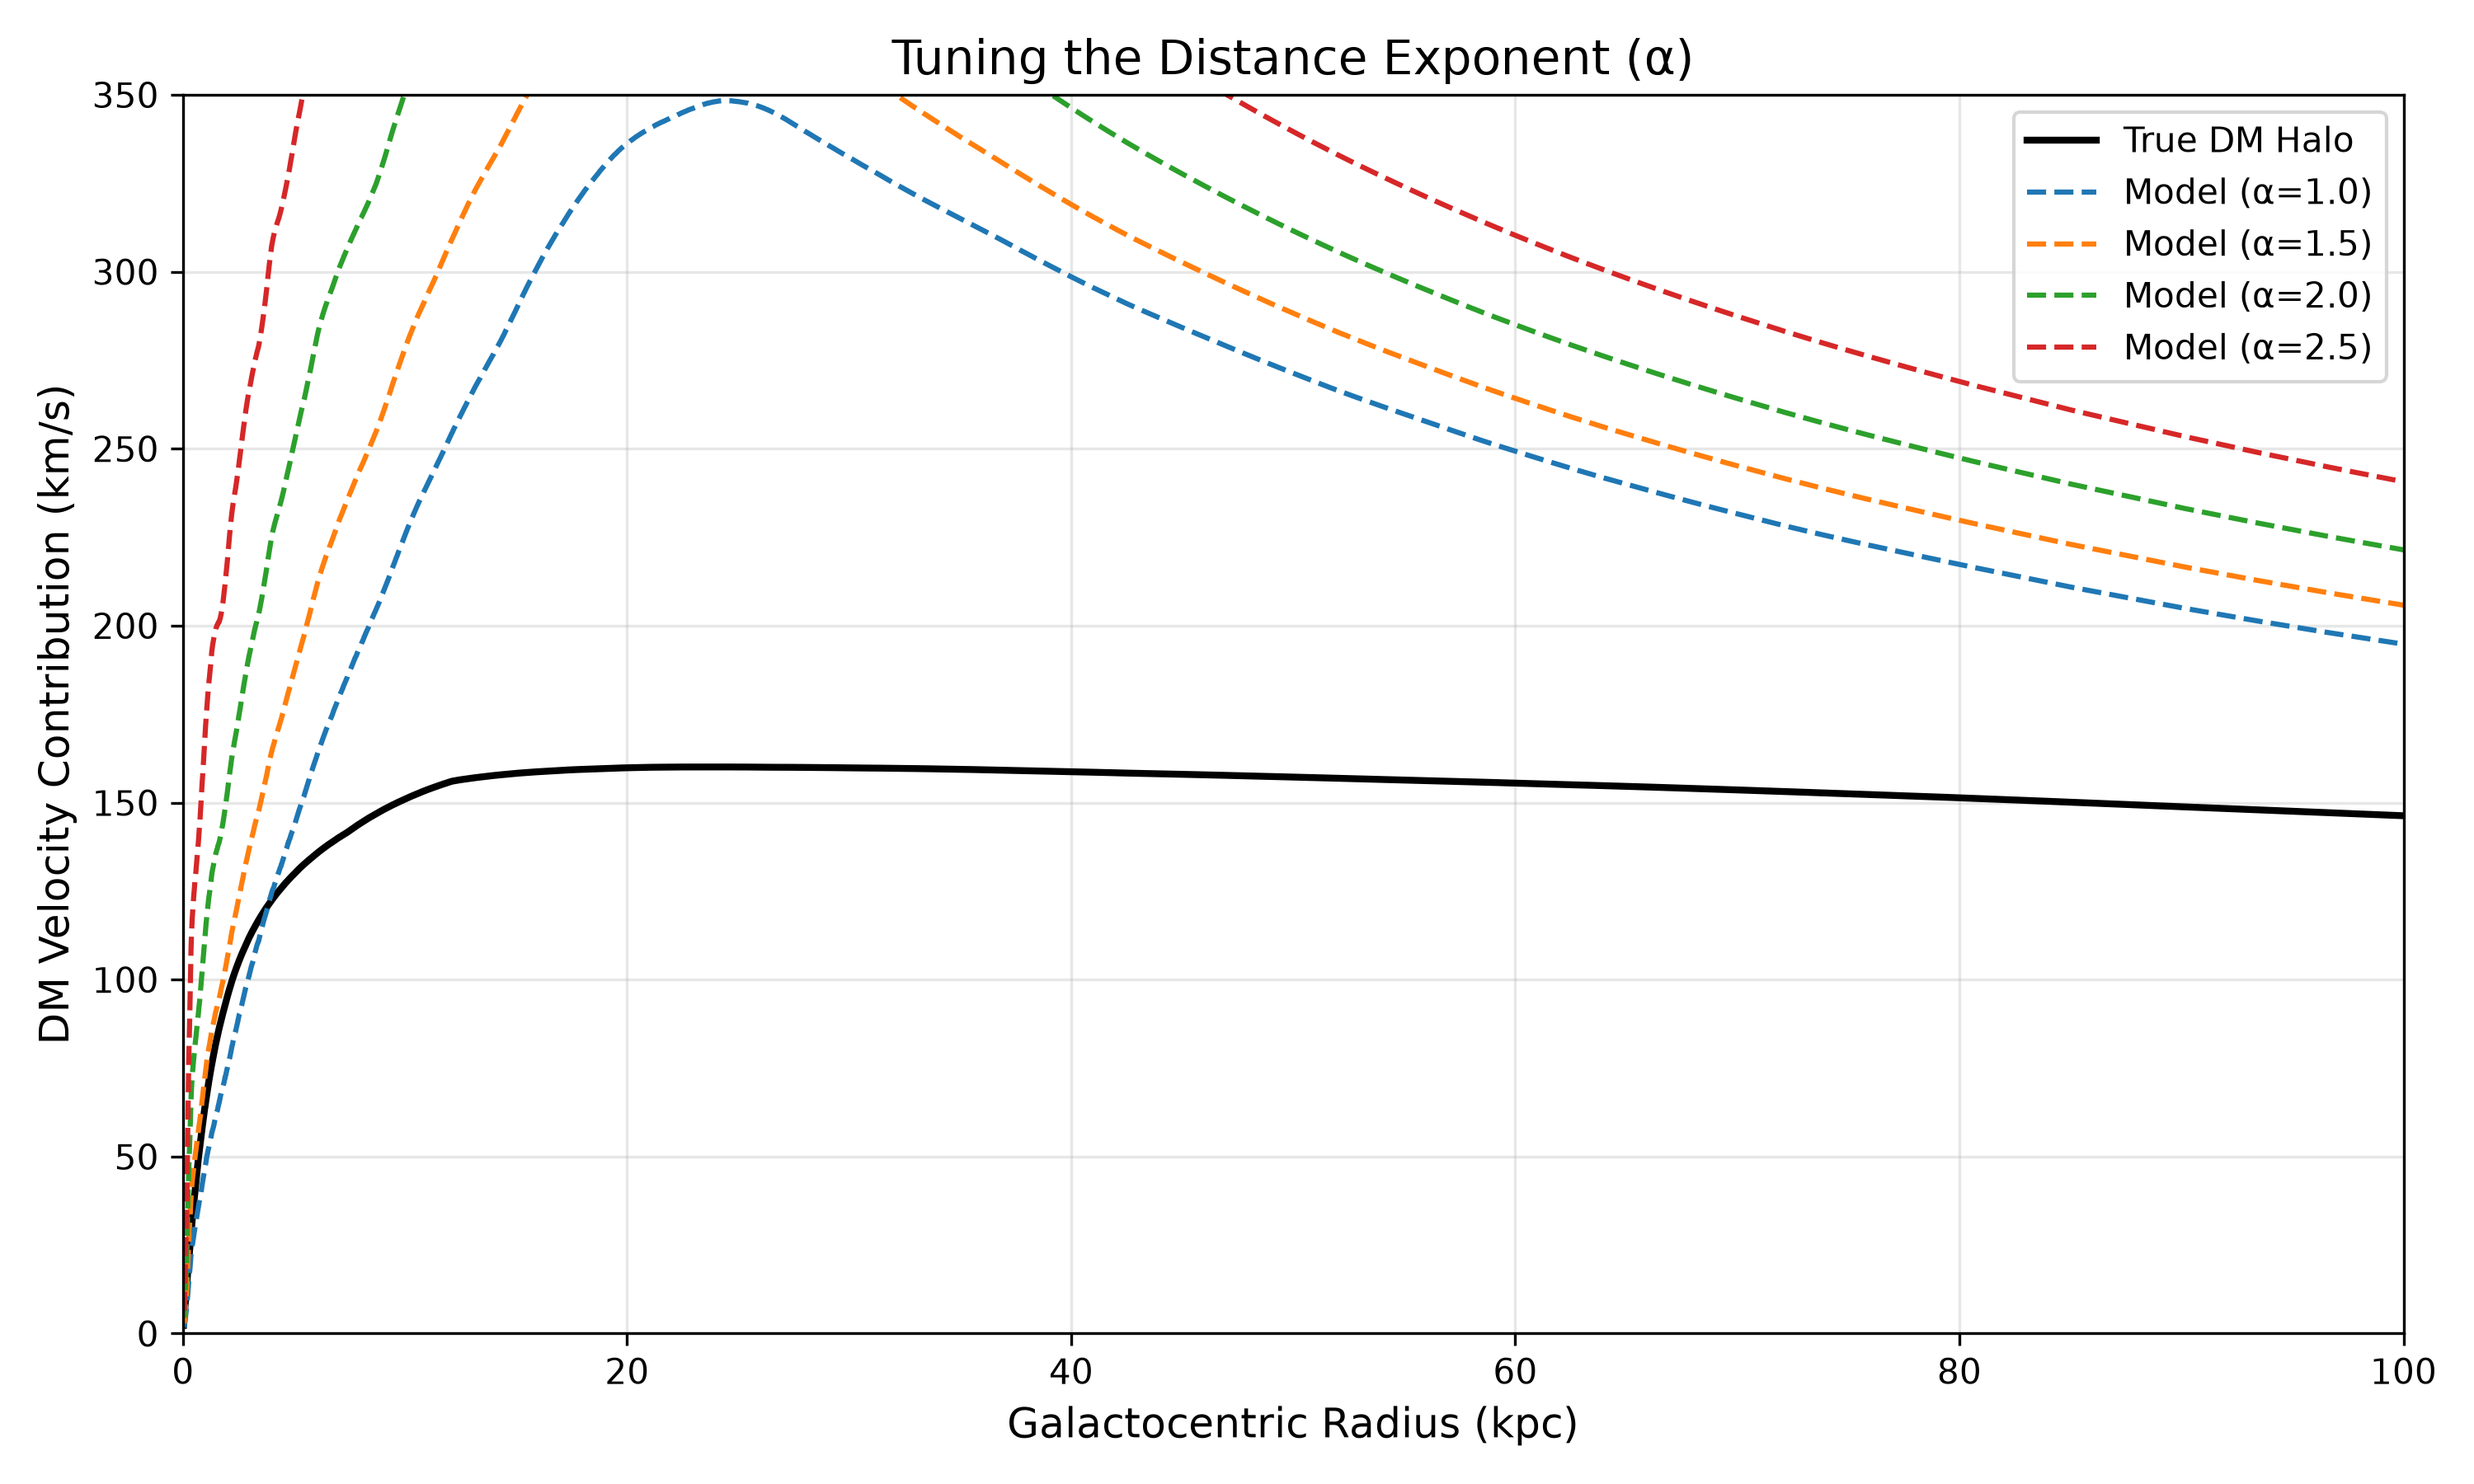
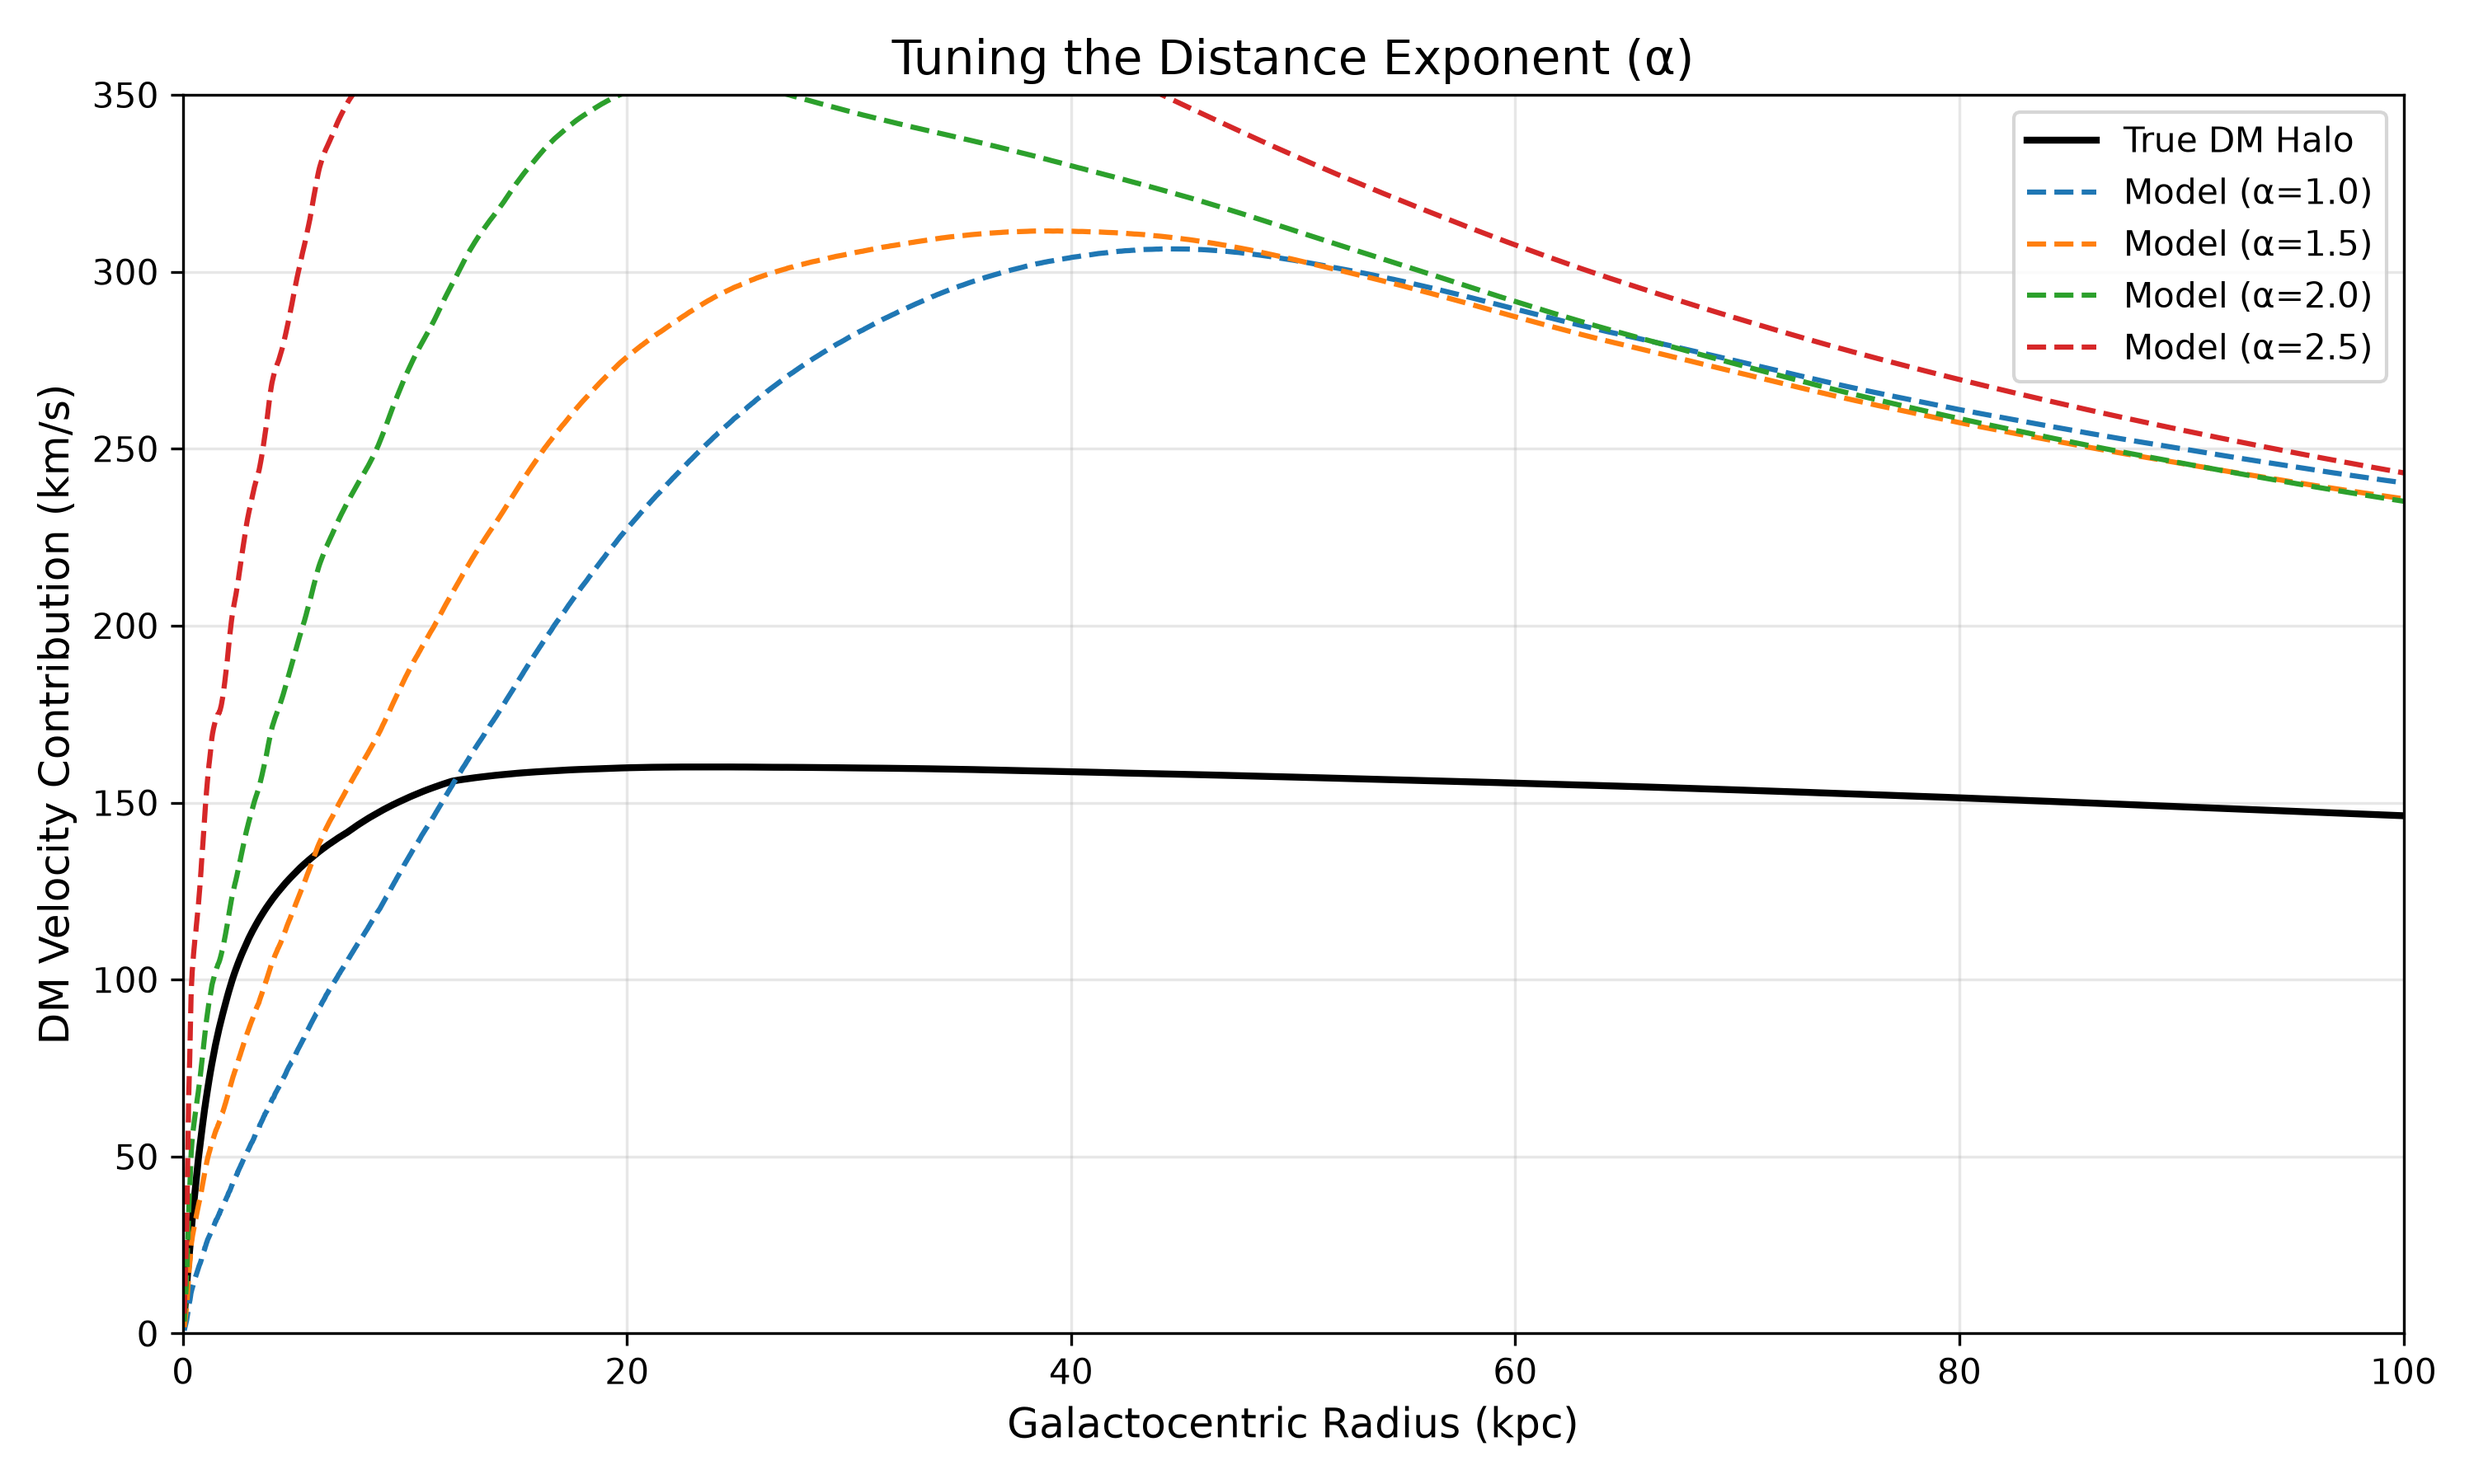
better graph titles, remove silly alpha thing

diff --git a/darkmatter.py b/darkmatter.py
@@ -7,7 +7,7 @@ import gizmo_analysis as gizmo
 # 1. CONFIGURATION & CONSTANTS
 # ==========================================
 SNAPSHOT_NUM = 600
-DENSITY_THRESHOLD = 0.001  # cm^-3 (filtering for dense gas)
+DENSITY_THRESHOLD = 0.0002  # cm^-3 (filtering for dense gas)
 PLOT_X_LIMIT = 100.0      # kpc
 USE_STARS = False         # Toggle stellar contribution to predicted DM
   
@@ -15,6 +15,8 @@ G = 4.3009e-6             # Gravitational constant: kpc * (km/s)^2 / M_sun
 c = 299792458.0           # Speed of light: m/s
 MSUN_TO_KG = 1.989e30     # Solar masses to kilograms
 MSUN_KPC3_TO_KG_M3 = 6.77e-29 # Mass density conversion
+SIM_FOLDER = "m12i_res7100"
+print(f"{SIM_FOLDER} Rotation Curves gas generated DM. rho > {DENSITY_THRESHOLD:.1e}/cm^-3")
 
 def get_component_velocity(radii, masses):
     """Sorts particles by radius and calculates circular velocity."""
@@ -35,7 +37,7 @@ part = gizmo.io.Read.read_snapshots(
     'index', 
     SNAPSHOT_NUM, 
     assign_hosts=True, 
-    simulation_directory='./m12i_res7100'
+    simulation_directory=f'./{SIM_FOLDER}'
 )
 
 r_stars = part['star'].prop('host.distance.spherical')[:, 0]
@@ -140,12 +142,12 @@ S = 100
 # Graph 1: Total Rotation Curve
 # ------------------------------------------
 plt.figure(figsize=(10, 6))
-plt.plot(r_tot_true[::S], v_tot_true[::S], label='True FIRE Simulation', color='black', lw=2)
-plt.plot(r_tot_pred[::S], v_tot_pred[::S], label='Your Model (Baryons + Pred DM)', color='crimson', ls='--', lw=2)
-
-plt.title('Total Rotation Curve Comparison', fontsize=14)
+plt.plot(r_tot_true[::S], v_tot_true[::S], label='Full FIRE Simulation', color='black', lw=2)
+plt.plot(r_tot_pred[::S], v_tot_pred[::S], label=f"Baryons + DM Prediction P = {P:.1f} Watts", color='crimson', ls='--', lw=2)
+ 
+plt.title(f"{SIM_FOLDER} Rotation Curves gas generated DM. rho > {DENSITY_THRESHOLD:.1e}/cm^-3", fontsize=14)
 plt.xlabel('Galactocentric Radius (kpc)', fontsize=12)
-plt.ylabel('Velocity (km/s)', fontsize=12)
+plt.ylabel('Velocity (km/s)', fontsize=12) 
 plt.xlim(0, PLOT_X_LIMIT)
 plt.ylim(0, 300)
 plt.grid(True, alpha=0.3)
@@ -160,8 +162,8 @@ print("Saved plot_1_total_rotation_curve.png")
 # Graph 2: Component Decomposition
 # ------------------------------------------
 plt.figure(figsize=(10, 6))
-plt.plot(r_dm_t[::S], v_dm_true[::S], label='True DM Halo', color='black', lw=2)
-plt.plot(r_dm_p[::S], v_dm_pred[::S], label=f'Predicted DM Halo (α={alpha_std})', color='crimson', ls='--', lw=2)
+plt.plot(r_dm_t[::S], v_dm_true[::S], label='FIRE DM Halo', color='black', lw=2)
+plt.plot(r_dm_p[::S], v_dm_pred[::S], label=f"Predicted DM Halo P = {P:.1f} Watts", color='crimson', ls='--', lw=2)
 plt.plot(np.sort(r_stars)[::S], v_stars[::S], label='Stars', color='goldenrod', ls='-.')
 plt.plot(np.sort(r_gas_all)[::S], v_gas[::S], label='Gas', color='teal', ls='-.')
 
@@ -178,41 +180,3 @@ plt.savefig('plot_2_component_decomposition.png', dpi=300)
 plt.close()
 print("Saved plot_2_component_decomposition.png")
 
-# ------------------------------------------
-# Graph 3: Tuning the Power-Law (Alpha)
-# ------------------------------------------
-plt.figure(figsize=(10, 6))
-plt.plot(r_dm_t[::S], v_dm_true[::S], label='True DM Halo', color='black', lw=2)
-alpha_test_values = [1.0, 1.5, 2.0, 2.5]
-
-for a in alpha_test_values:
-    sf_gas = np.sum(V_i_gas / (c**3 * d_avg_gas**a))
-    sf_star = np.sum(V_i_star / (c**3 * d_avg_star**a)) if USE_STARS else 0.0
-    sf_total = sf_gas + sf_star
-    
-    P_a = target_dm_mass_kg / sf_total
-    dm_m_gas = (P_a * (V_i_gas / (c**3 * d_avg_gas**a))) / MSUN_TO_KG
-    
-    if USE_STARS:
-        dm_m_star = (P_a * (V_i_star / (c**3 * d_avg_star**a))) / MSUN_TO_KG
-        r_comb = np.concatenate([r_gas_f, r_stars_f])
-        m_comb = np.concatenate([dm_m_gas, dm_m_star])
-    else:
-        r_comb = r_gas_f
-        m_comb = dm_m_gas
-        
-    r_a, v_a = get_component_velocity(r_comb, m_comb)
-    plt.plot(r_a[::S], v_a[::S], label=f'Model (α={a})', ls='--')
-
-plt.title('Tuning the Distance Exponent (α)', fontsize=14)
-plt.xlabel('Galactocentric Radius (kpc)', fontsize=12)
-plt.ylabel('DM Velocity Contribution (km/s)', fontsize=12)
-plt.xlim(0, PLOT_X_LIMIT)
-plt.ylim(0, 350)
-plt.grid(True, alpha=0.3)
-plt.legend(loc='upper right')
-
-plt.tight_layout()
-plt.savefig('plot_3_tuning_alpha.png', dpi=300)
-plt.close()
-print("Saved plot_3_tuning_alpha.png")
